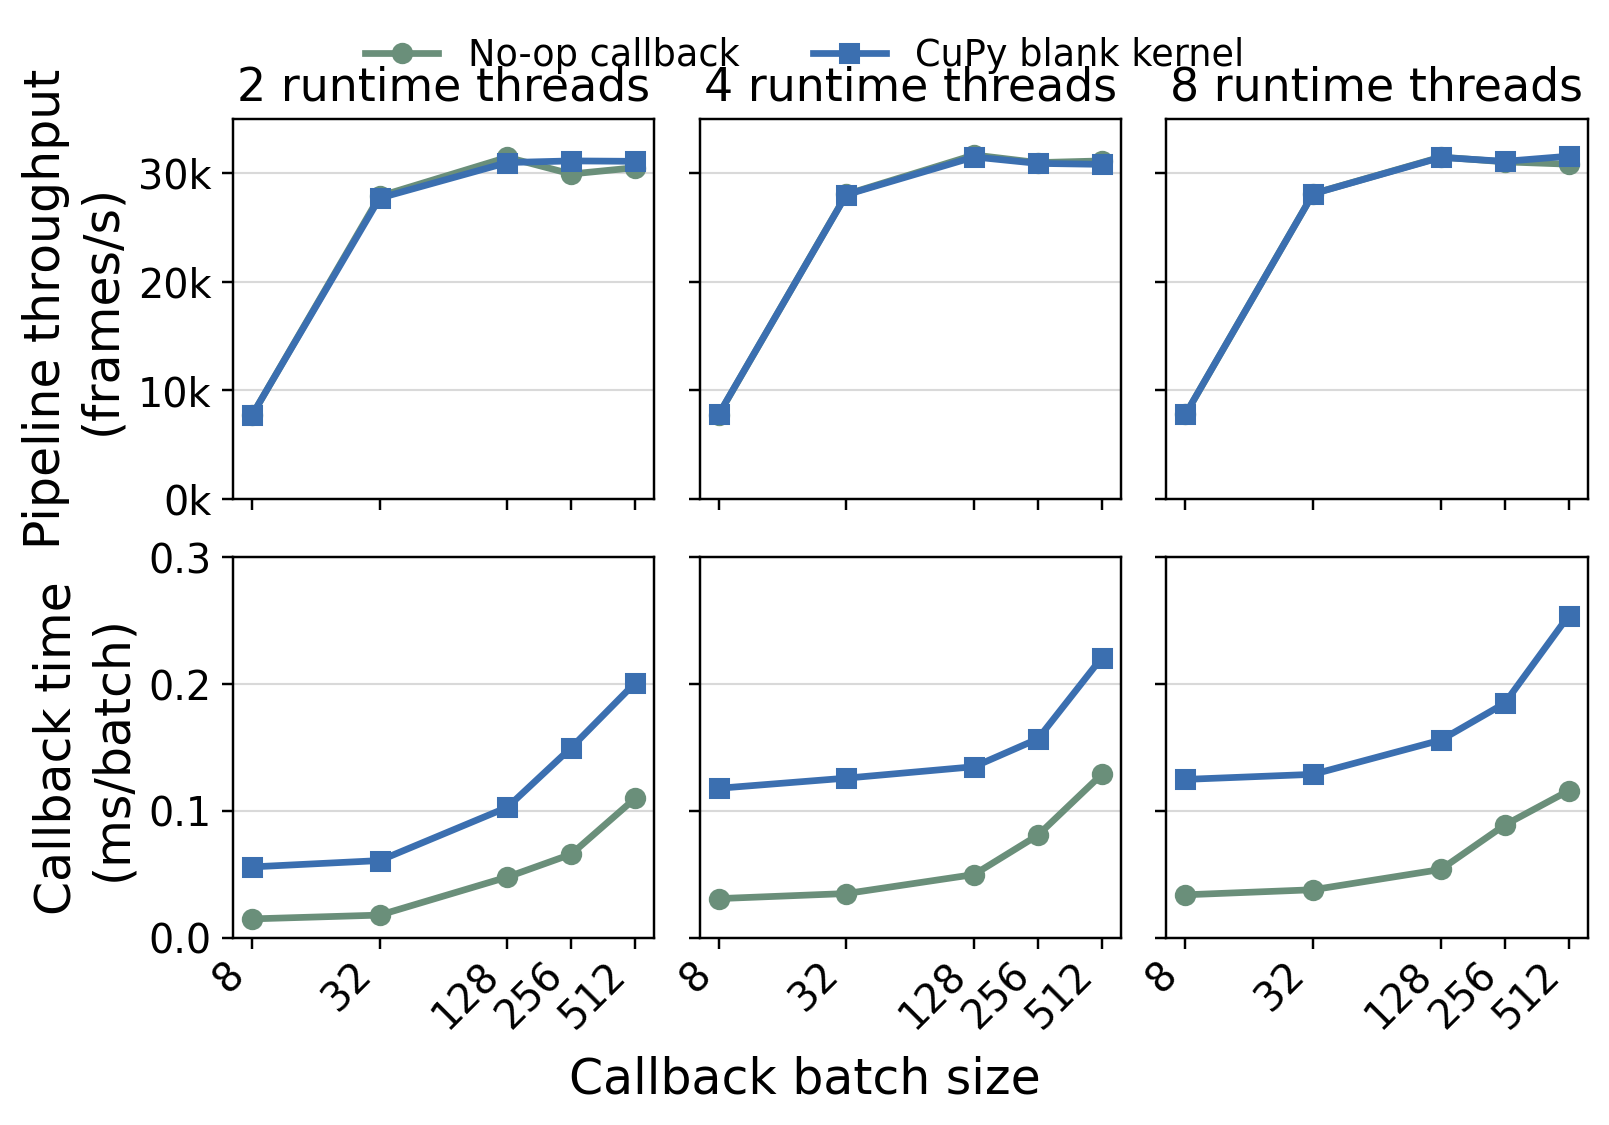
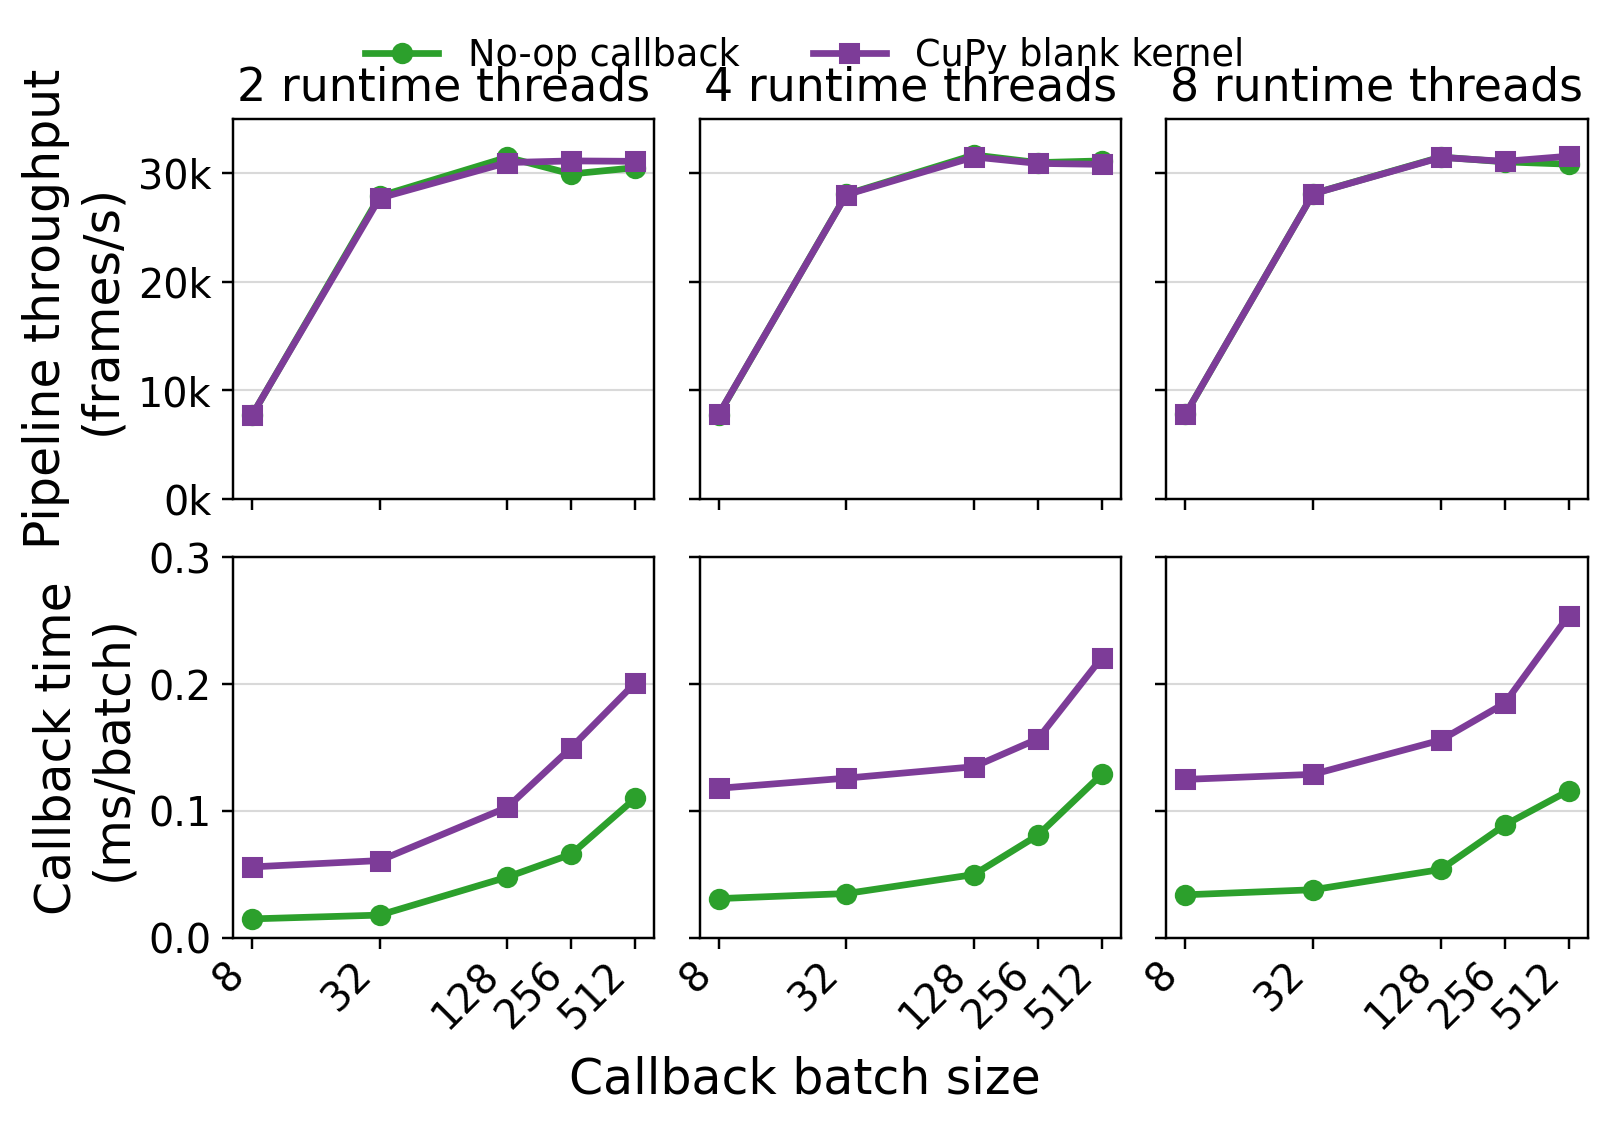
bare_runtime_ceiling: use vivid green/purple for noop/cupy (previous green/blue too similar)

diff --git a/experiments/figures/sc5_bare_runtime_ceiling/plot_bare_runtime_ceiling.py b/experiments/figures/sc5_bare_runtime_ceiling/plot_bare_runtime_ceiling.py
@@ -41,9 +41,9 @@ def main():
     for key in grouped:
         grouped[key].sort(key=lambda r: r["batch"])
 
-    # Drava-only figure: use a distinct palette (green/blue), NOT the Drava/PvaPy
-    # comparison colors (teal/orange), to avoid cross-figure confusion.
-    colors = {"noop": "#6A8F7A", "cupy": "#3B6FB0"}
+    # Drava-only figure: use a clearly distinct palette (green/purple), NOT the
+    # Drava/PvaPy comparison colors (teal/orange), to avoid cross-figure confusion.
+    colors = {"noop": "#2CA02C", "cupy": "#7D3C98"}
     labels = {"noop": "No-op callback", "cupy": "CuPy blank kernel"}
     markers = {"noop": "o", "cupy": "s"}
     thread_values = sorted({row["threads"] for row in rows})
